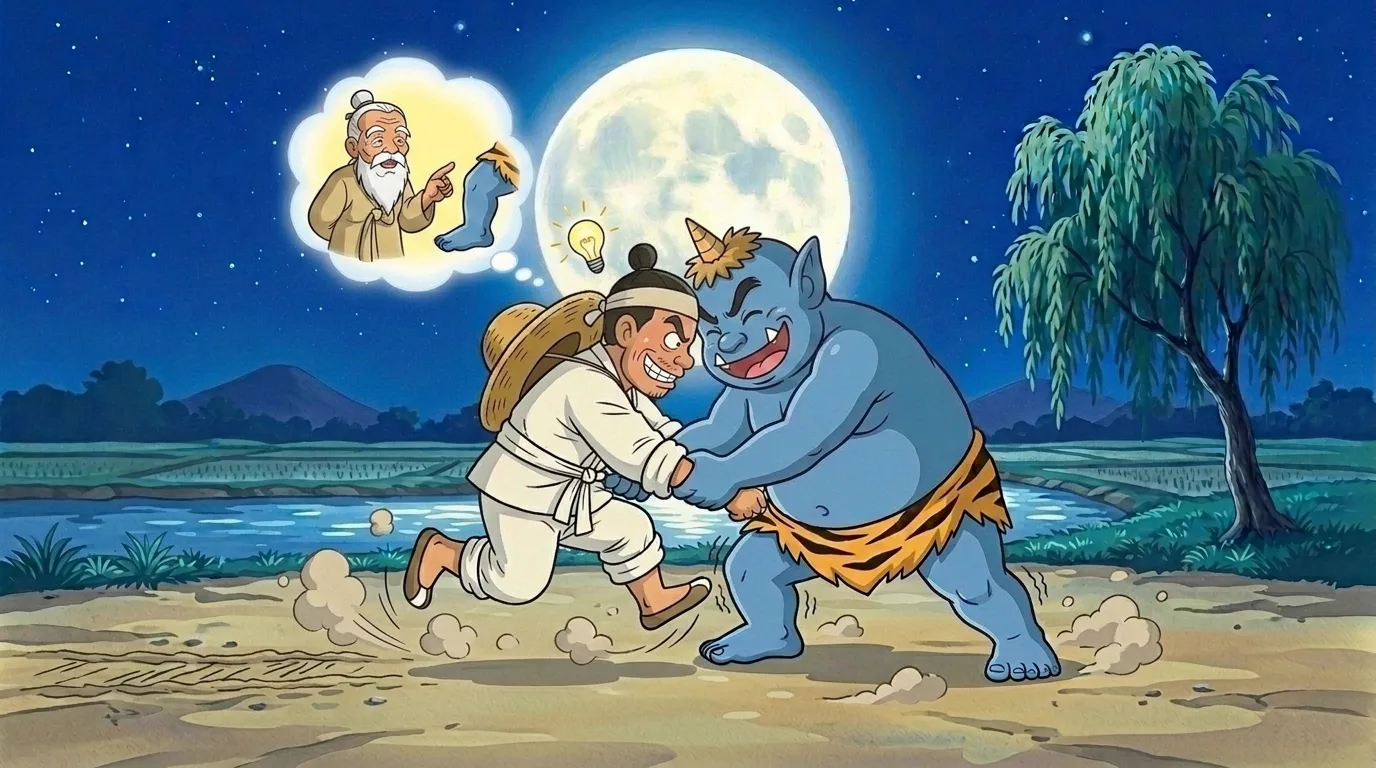
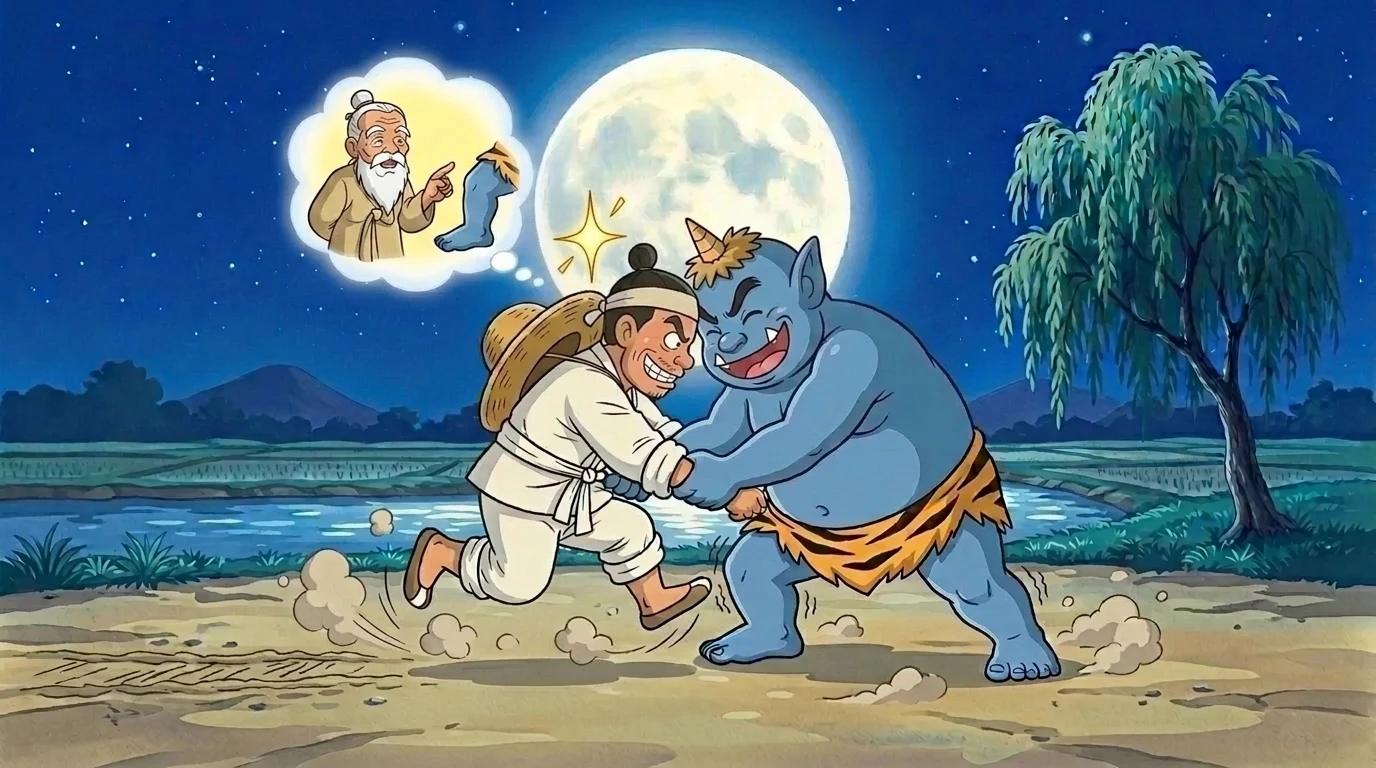
「다 끝났다」고 한 것은 잘못이었다 — 낮은 순위가 아직 남아 있다
주문서의 「꼭 고칠 것」 스물셋만 세고 끝났다고 적었다. 그 아래
「낮은 순위」 일곱이 그대로 남아 있는데 못 보고 지나쳤다.
지금도 그림이 들어오고 있다.

방금 온 것
  밤에 찾아온 도깨비 05-remember  **전구가 사라지고 반짝임(✨)으로
    바뀌었다.** 할아버지가 파란 다리를 가리키는 생각 풍선은 그대로다.
    도깨비도 김 서방보다 눈에 띄게 커졌다. 진짜 webp로 왔다

아직 남은 낮은 순위 여섯
  박혁거세 05-boy      말이 아직 하늘에 있다 (앞 펼침에서 사라졌다)
  박혁거세 06-bath     글은 촌장들인데 한 사람뿐
  밤에 찾아온 도깨비 02  글은 「키가 두 배」인데 그만큼 크지 않다
  호랑이 형님 11·12    글은 털이 허옇게 셌는데 여전히 젊다
  홍길동전 01-c        「똑같은 얼굴이 여덟」인데 그림자로만 보인다
  해와 달 03-pass      호랑이가 둘로 보인다
  견우와 직녀 06·08    두 그림이 많이 닮았다

주문서에 「낮은 순위 — 아직 남은 것」 표를 따로 만들어 두었다.

Changed region(s): [[0.4062, 0.25, 0.4688, 0.375], [0.25, 0.125, 0.2812, 0.1875], [0.4688, 0.4688, 0.5, 0.5]]

diff --git a/learning/literacy-numeracy/story-books/korea-tales/ORDER-TO-GEMINI.md b/learning/literacy-numeracy/story-books/korea-tales/ORDER-TO-GEMINI.md
@@ -576,4 +576,20 @@
     62권 · 칸 1768 · 문항 434 · 본문 227,010자 — 이상 없음
     소설 그림 닻 135개 다 살아 있음
 
-**주문서에 남은 것이 없습니다. 고맙습니다.**
+**꼭 고칠 것 스물셋은 다 끝났습니다.** 다만 아래 「낮은 순위」가 아직
+남아 있습니다. 제가 「다 끝났다」고 적었던 것은 잘못이었습니다.
+
+---
+
+# 낮은 순위 — 아직 남은 것
+
+| 자리 | 무엇이 | 상태 |
+|---|---|---|
+| `bame-chajaon-dokkaebi` 05-remember | 전구 → 반짝임 | **해결** (12:35) |
+| `bak-hyeokgeose` 05-boy | 말이 아직 하늘에 있다. 앞 펼침에서 사라졌다 | |
+| `bak-hyeokgeose` 06-bath | 글은 촌장들이 함께 씻기는데 한 사람뿐 | |
+| `bame-chajaon-dokkaebi` 02-challenge | 글은 「키가 두 배」인데 그만큼 크지 않다. 표지는 두 배로 잘 그렸다 | |
+| `horangi-hyeongnim` 11-confess · 12-know | 글은 「털이 허옇게 세어 있었지요」인데 여전히 젊다 | |
+| `honggildongjeon` story-01-c | 「똑같은 얼굴이 여덟」인데 그림자로만 보인다 | |
+| `haewa-dari-doen-onui` 03-pass | 호랑이가 둘로 보인다. 고개마다 나타나는 같은 호랑이다 | |
+| `gyeonu-jiknyeo` 06-parted · 08-river | 두 그림이 많이 닮았다 | |
